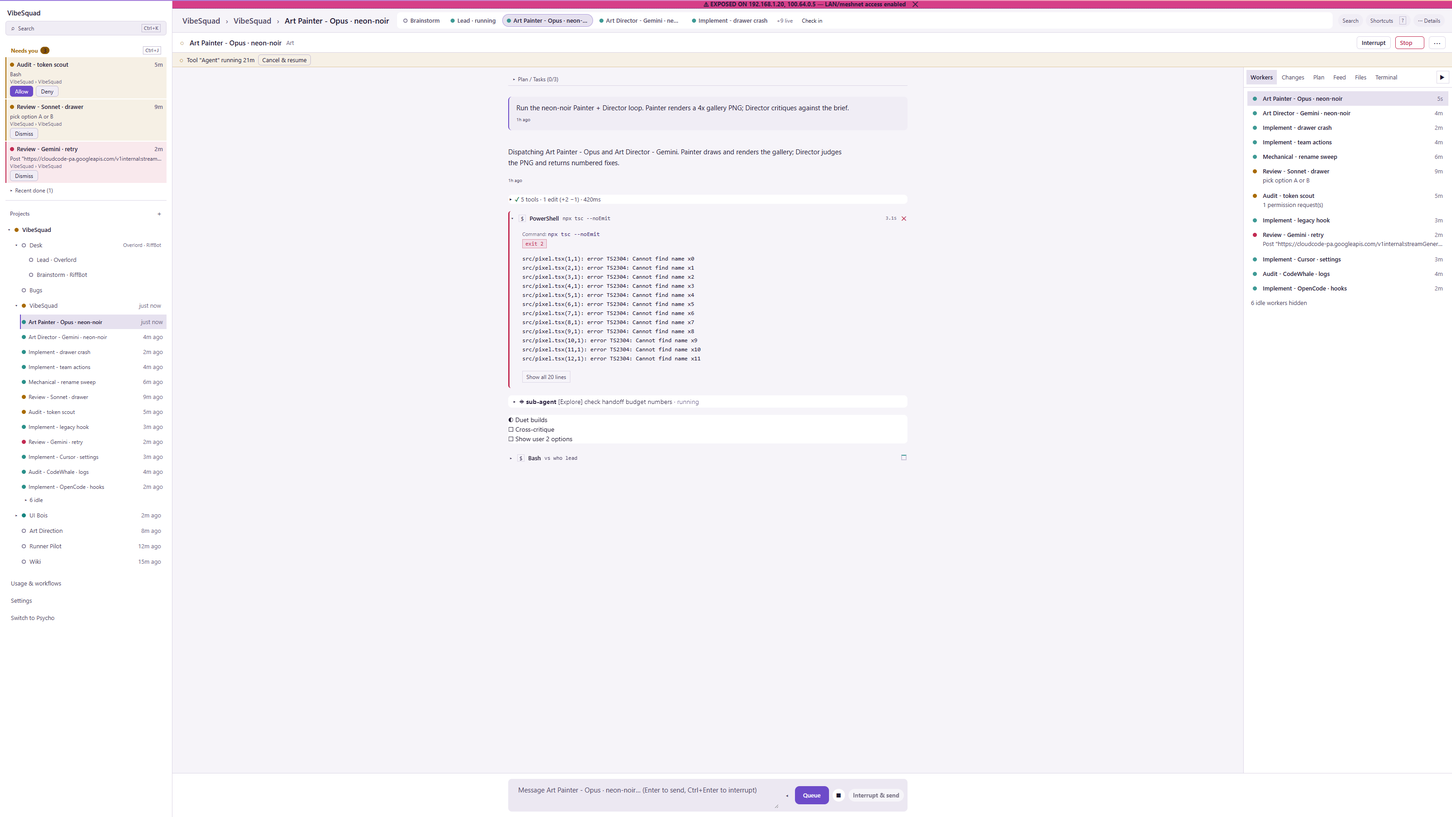
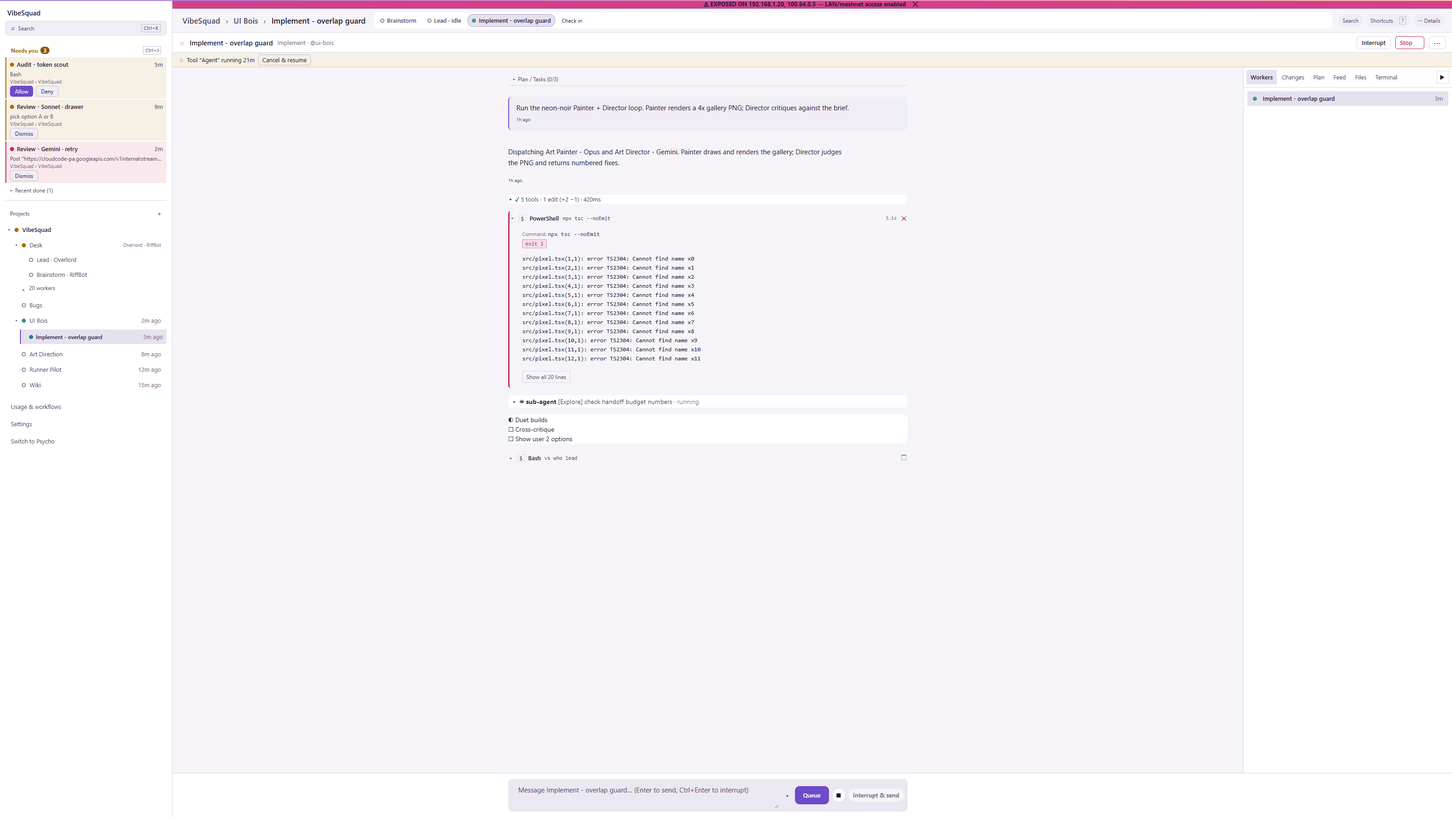
R2 sidebar fix round: fold project-named lane into Desk, indent workers + idle chevron column, light badge WCAG, Bugs table columns, reveal-on-jump (Ctrl+J/Needs you), Bugs closure, Search opens palette, ui-clicks testids, tests + shots

diff --git a/src/BoringAde.tsx b/src/BoringAde.tsx
@@ -75,7 +75,8 @@ export function boringSelectionForAgent(view: TeamView | undefined, agentId: str
   for (const pin of pinsForSquad(view).pinned) {
     if (isHubPin(pin)) continue;
     const r = roleIn(pin);
-    if (r) return { laneId: pin.lane.id, role: r };
+    // A lane named after the project (id === team id) is the Desk's own: its members show as Desk rows, not a second "VibeSquad" lane.
+    if (r) return pin.lane.id === view.team.id ? { laneId: "_desk", role: "worker" } : { laneId: pin.lane.id, role: r };
   }
   return null;
 }
@@ -172,8 +173,14 @@ export function boringSidebarModel(view: TeamView | undefined, now = Date.now())
     needsYou: z.member?.attention && z.member.attention.tone !== "finished" ? 1 : 0,
     age: formatTimestamp(z.member?.agent.updatedAt, "relative", now),
   });
+  // A feature lane whose id is the project id duplicates the hub: fold its members into the Desk instead of a second row.
+  const deskPins = (view ? pinsForSquad(view).pinned : []).filter((p) => !isHubPin(p) && p.lane.id === view?.team.id);
+  const deskWorkers: Pin["workers"] = [];
+  for (const m of [...(zones.hub?.workers ?? []), ...deskPins.flatMap((p) => [p.lead, p.brainstorm, ...(p.workers ?? [])])]) {
+    if (m && !deskWorkers.some((x) => x.agent.id === m.agent.id) && m.agent.id !== zones.overlord.member?.agent.id && m.agent.id !== zones.riffbot.member?.agent.id) deskWorkers.push(m);
+  }
   const core = {
-    deskWorkers: zones.hub?.workers ?? [],
+    deskWorkers,
     overlord: zoneRow("Lead · Overlord", zones.overlord),
     riffbot: zoneRow("Brainstorm · RiffBot", zones.riffbot),
     bugs: {
@@ -187,9 +194,9 @@ export function boringSidebarModel(view: TeamView | undefined, now = Date.now())
     },
   };
   // 2.1: the hub lane (RiffBot/Overlord plus anything else parked in it) and every lane worker count, so these totals match the project badge.
-  const hubNeedsYou = zones.hub?.needsYou ?? 0;
+  const hubNeedsYou = (zones.hub?.needsYou ?? 0) + deskPins.reduce((n, p) => n + p.needsYou, 0);
   const conversations = (view ? pinsForSquad(view).pinned : [])
-    .filter((p) => !isHubPin(p) && p.lane.id !== bugs.pin?.lane.id) // the Bugs lane has its own desk row: never count it twice
+    .filter((p) => !isHubPin(p) && p.lane.id !== view?.team.id && p.lane.id !== bugs.pin?.lane.id) // the Bugs lane has its own desk row: never count it twice
     .map((pin) => ({
       laneId: pin.lane.id,
       name: boringLaneLabel(pin.lane.name),
@@ -209,7 +216,7 @@ export function boringSidebarModel(view: TeamView | undefined, now = Date.now())
   // The project badge (view.needsYou) counts every member; fall back to hub + lanes when a view doesn't carry it.
   const totalNeedsYou = Math.max(view?.needsYou ?? 0, hubNeedsYou + laneTotal + core.bugs.needsYou);
   // Worst state per container (R2.5): red if anything inside errored, else amber. Only collapsed containers show a badge.
-  const deskErr = pinErr(zones.hub) || memberErr(zones.overlord.member) || memberErr(zones.riffbot.member);
+  const deskErr = pinErr(zones.hub) || deskPins.some(pinErr) || memberErr(zones.overlord.member) || memberErr(zones.riffbot.member);
   const projectErr = deskErr || core.bugs.err || conversations.some((c) => c.err);
   return { core, conversations, hubNeedsYou, totalNeedsYou, deskErr, projectErr };
 }
@@ -300,7 +307,7 @@ export function boringLaneTableRows(
     lastEvent: "", age: overlord.age || riffbot.age, sortAge: 0,
   };
   const bugsRow: LaneTableRow = {
-    key: "_bugs", kind: "desk", laneId: "_bugs", label: bugs.label, code: "", brainstorm: bugs.leadRunning ? "running" : "none", lead: "—",
+    key: "_bugs", kind: "desk", laneId: "_bugs", label: bugs.label, code: "", brainstorm: "—", lead: bugs.leadRunning ? "running" : "none",
     workers: workerSummary(bugs.pin?.workers ?? []), needsYou: bugs.needsYou, running: bugs.leadRunning ? 1 : 0, lastEvent: "", age: bugs.age, sortAge: 0,
   };
   return [...lanes, deskRow, bugsRow];
@@ -367,6 +374,7 @@ export function BoringApp({ views, view, onSelectSquad, onOpenPin, onSpinUpPin, 
       setSelectedLaneId(land.sel.laneId);
       if (land.sel.role === "worker") setSelectedWorkerId(activeAgentId);
       else { setSelectedRole(land.sel.role); setSelectedWorkerId(null); }
+      revealAgent(land.view, land.sel, activeAgentId);
     }
     setMode(land.mode);
   }, [activeAgentId]);
@@ -407,11 +415,32 @@ export function BoringApp({ views, view, onSelectSquad, onOpenPin, onSpinUpPin, 
     } else if (m) openAgent(m.agent.id);
     else void onOpenPin(pin);
   };
+  /** Open every parent of a jumped-to agent (project, Desk / lane, idle bucket): an explicit collapse never hides the selected row. */
+  const revealAgent = (v: TeamView, s: { laneId: string; role: Role | "worker" } | null, id: string) => {
+    if (!s) return;
+    const tid = v.team.id;
+    setProjectOpen((o) => ({ ...o, [tid]: true }));
+    if (s.laneId === "_overlord" || s.laneId === "_riffbot" || s.laneId === "_desk") {
+      setDeskOpen((o) => ({ ...o, [tid]: true }));
+      if (s.role === "worker") setDeskWorkersOpen((o) => ({ ...o, [tid]: true }));
+      return;
+    }
+    const key = `${tid}/${s.laneId}`;
+    setLaneOpen((o) => ({ ...o, [key]: true }));
+    if (s.role === "worker") {
+      const m = boringSidebarModel(v);
+      const pin = s.laneId === "_bugs" ? m.core.bugs.pin : m.conversations.find((c) => c.laneId === s.laneId)?.pin;
+      const w = (pin?.workers ?? []).find((x) => x.agent.id === id);
+      if (w && !boringWorkerIsLive(w)) setIdleWorkersOpen((o) => ({ ...o, [key]: true }));
+    }
+  };
   const openNeedsYou = (row: NeedsYouRow) => {
     if (row.teamId !== view?.team.id) onSelectSquad(row.teamId);
     const sel = boringSelectionForAgent(row.view, row.item.id);
     setSelectedLaneId(sel?.laneId ?? null);
     if (sel && sel.role !== "worker") setSelectedRole(sel.role);
+    setSelectedWorkerId(sel?.role === "worker" ? row.item.id : null);
+    revealAgent(row.view, sel, row.item.id);
     setMode("chat");
     openAgent(row.item.id);
   };
@@ -422,13 +451,13 @@ export function BoringApp({ views, view, onSelectSquad, onOpenPin, onSpinUpPin, 
     setMode("chat");
     if (agentId) openAgent(agentId);
   };
-  const pickBugs = () => {
+  const pickBugs = (b: { pin: Pin | null; agentId: string | null } = core.bugs) => {
     setSelectedLaneId("_bugs");
     setSelectedRole("brainstorm");
     setSelectedWorkerId(null);
     setMode("chat");
     // Selecting only shows the lane (live Buddy) or its empty card; spawning is the card's "Start Brainstorm" (never focusPin).
-    if (core.bugs.pin && core.bugs.agentId) openAgent(core.bugs.agentId);
+    if (b.pin && b.agentId) openAgent(b.agentId);
   };
 
   // Resolve the chat target.
@@ -575,7 +604,7 @@ export function BoringApp({ views, view, onSelectSquad, onOpenPin, onSpinUpPin, 
             {idle.length > 0 && (
               <>
                 <button type="button" className="boring-idle-toggle boring-worker-idle" data-testid={`boring-workers-idle-${c.laneId}`} aria-expanded={idleOpen} onClick={() => setIdleWorkersOpen((o) => ({ ...o, [key]: !idleOpen }))}>
-                  {idleOpen ? "▾" : "▸"} {idle.length} idle
+                  <span className="boring-idle-chev" aria-hidden="true">{idleOpen ? "▾" : "▸"}</span>{idle.length} idle
                 </button>
                 {idleOpen && idle.map((w) => workerRow(v, c.pin!, c.laneId, w))}
               </>
@@ -592,7 +621,7 @@ export function BoringApp({ views, view, onSelectSquad, onOpenPin, onSpinUpPin, 
         {agentObj ? <StatusDot agent={agentObj} /> : <span className={`boring-dot ${status} ${glyphCls(status, needsYou > 0 ? "needs-you" : null)}`} />}
         <span className="boring-row-label">{label}</span>
         <span className="boring-conv-age">{age}</span>
-        {badge(needsYou)}
+        {badge(needsYou, memberErr(agentObj ? { agent: agentObj } : null))}
       </button>
     </div>
   );
@@ -635,7 +664,7 @@ export function BoringApp({ views, view, onSelectSquad, onOpenPin, onSpinUpPin, 
   };
   const bugsRow = (v: TeamView, m: ReturnType<typeof boringSidebarModel>) => {
     const b = m.core.bugs;
-    const openBugs = () => { if (v.team.id !== activeTeamId) onSelectSquad(v.team.id); pickBugs(); };
+    const openBugs = () => { if (v.team.id !== activeTeamId) onSelectSquad(v.team.id); pickBugs(b); };
     return laneRow(v, { laneId: "_bugs", name: b.label, code: "", pin: b.pin, status: b.pin?.running ? "running" : b.pin?.brainstorm?.agent.status ?? "none", needsYou: b.needsYou, err: b.err, age: b.age, titleTestId: suffix(v, "boring-core-bugs"), onOpen: openBugs });
   };
 
@@ -644,7 +673,7 @@ export function BoringApp({ views, view, onSelectSquad, onOpenPin, onSpinUpPin, 
       <aside className="boring-sidebar" data-testid="boring-sidebar">
         <div className="boring-sidebar-head" data-testid="boring-sidebar-head">
           <span className="boring-sidebar-title" data-testid="boring-sidebar-title">{view?.team.name ?? "No project"}</span>
-          <button type="button" className="boring-search-trigger" data-testid="boring-sidebar-search-btn" title="Search all transcripts" aria-label="Search (Ctrl+K)" onClick={() => openOverlay("search")}>
+          <button type="button" className="boring-search-trigger" data-testid="boring-sidebar-search-btn" title="Command palette (Ctrl+K)" aria-label="Search: open command palette (Ctrl+K)" onClick={() => openOverlay("palette")}>
             <span aria-hidden="true">⌕</span><span>Search</span><kbd className="boring-kbd">Ctrl+K</kbd>
           </button>
         </div>
@@ -665,7 +694,7 @@ export function BoringApp({ views, view, onSelectSquad, onOpenPin, onSpinUpPin, 
                   <button type="button" className={"boring-project-row" + (isOn(v, "project") ? " on" : "")} data-testid={`boring-project-header-${v.team.id}`} aria-expanded={open} onClick={() => openProject(v.team.id)}>
                     <span className={`boring-dot ${(v.running ?? 0) > 0 ? "running" : "idle"} ${glyphCls((v.running ?? 0) > 0 ? "running" : "idle", (v.needsYou ?? 0) > 0 ? "needs-you" : null)}`} />
                     <span className="boring-project-name">{v.team.name}</span>
-                    {!open && badge(v.needsYou ?? 0, m.projectErr)}
+                    {!open && badge(m.totalNeedsYou, m.projectErr)}
                   </button>
                   {active && (
                     <button type="button" className="boring-lane-add" data-testid="boring-new-conv-btn" title="New lane" aria-label="New lane" onClick={onAddBuddy}>+ lane</button>

diff --git a/src/boring.css b/src/boring.css
@@ -1130,8 +1130,10 @@ html[data-vibe="boring"] .boring-conv-line .boring-core-row { flex: 1 1 auto; mi
 html[data-vibe="boring"] .boring-core-row.on { background: var(--surface-3); box-shadow: inset 2px 0 0 var(--accent); }
 html[data-vibe="boring"] .boring-desk-sub { margin-left: auto; font-size: var(--t-caption); color: var(--text-3); white-space: nowrap; }
 html[data-vibe="boring"] .boring-conv-row.on:not(:has(.boring-worker-row.on)) > .boring-conv-line { background: var(--surface-3); box-shadow: inset 2px 0 0 var(--accent); border-radius: 6px; }
-html[data-vibe="boring"] .boring-worker-list { padding-left: 16px; }
-html[data-vibe="boring"] .boring-worker-row { padding-left: 4px; }
+html[data-vibe="boring"] .boring-worker-list { padding-left: 16px; } /* children of the lane: same 16px level step as the Desk members */
+html[data-vibe="boring"] .boring-worker-row { padding-left: 20px; } /* 16px chevron slot + 4px, so the worker dot sits one level right of the lane dot */
 html[data-vibe="boring"] .boring-desk-workers .boring-idle-toggle { min-height: 24px; padding-left: 4px; }
+html[data-vibe="boring"] .boring-worker-list > .boring-idle-toggle { display: inline-flex; align-items: center; gap: 0; min-height: 24px; padding: 2px 8px 2px 0; }
+html[data-vibe="boring"] .boring-idle-toggle .boring-idle-chev { flex: 0 0 16px; width: 16px; text-align: center; }
 html[data-vibe="boring"] .boring-badge.err { background: var(--st-err); color: var(--on-accent); }
-html[data-vibe="boring"][data-theme="light"] .boring-badge.err { background: var(--st-err); color: #ffffff; }
+html[data-vibe="boring"][data-theme="light"] .boring-badge { color: #ffffff !important; }

diff --git a/src/CommandPalette.tsx b/src/CommandPalette.tsx
@@ -413,7 +413,7 @@ export type PaletteActions = {
   needsYou?: () => void;
 };
 
-type Overlay = "search" | "shortcuts" | "quickOpen" | "findInFiles";
+type Overlay = "palette" | "search" | "shortcuts" | "quickOpen" | "findInFiles";
 export const openOverlay = (which: Overlay) => window.dispatchEvent(new CustomEvent("vs:open-overlay", { detail: which }));
 
 /** Keymap commands this host doesn't run (focus-scoped ones such as block 4's inline edit) go out as this event. */

diff --git a/docs/shots/desk-r2/REVIEW_code_r2.md b/docs/shots/desk-r2/REVIEW_code_r2.md
@@ -1,0 +1,88 @@
+# Code Review · `unit-desk-r2-sidebar` (`43e6d04`)
+
+**Verdict:** `FAIL 1/3/2 43e6d04` (1 High, 3 Medium, 2 Low)
+**Commits reviewed:** `1c2b709`, `7e5f44d`, `43e6d04` (`origin/master...HEAD`)
+**Spec:** `docs/PLAN_DESK_R2_SIDEBAR.md` (`docs/UX_REVIEW_R2.md`)
+
+## Verification Run
+- `npx tsc --noEmit`: PASS (exit 0)
+- `node --test test/boring-mode.test.mjs test/prefs.test.mjs test/desk-d3c-context-panel.test.mjs test/pair-modal-scroll.test.mjs test/sync-runtime-live-needs.test.mjs`: PASS (103/103 tests)
+
+---
+
+## Findings
+
+### High
+
+1. **[H1] `scripts/ui-clicks.mjs` still references removed `boring-project-overview-btn` and unexpanded Desk child testids (`scripts/ui-clicks.mjs:64`, `src/BoringAde.tsx:603, 618-621`)**
+   - `scripts/ui-clicks.mjs:64` still defines:
+     ```js
+     ...[["boring-overview", "boring-project-overview-btn"], ["boring-overlord", "boring-core-overlord"], ["boring-riffbot", "boring-core-riffbot"], ["boring-bugs", "boring-core-bugs"], ["boring-usage", "boring-usage-btn"], ["boring-settings", "boring-settings-btn"]].map(([id, t]) => ({ id, setup: (p) => boringClick(p, t) })),
+     ```
+   - `boring-project-overview-btn` was removed in `7e5f44d` (replaced by `boring-project-header-<teamId>`).
+   - In addition, `boring-core-overlord` and `boring-core-riffbot` are now only rendered when `deskBlock` is expanded (`src/BoringAde.tsx:603, 618-621`), which defaults to collapsed on Overview/home (`deskOpen[key] ?? inDesk` is `false`), so `boringClick(p, "boring-core-overlord")` and `boringClick(p, "boring-core-riffbot")` will also time out unless `boring-desk-toggle` is clicked first.
+
+### Medium
+
+1. **[M1] `openNeedsYou` does not update `selectedWorkerId`, and parent auto-expansion does not override explicit collapse or expand idle workers (`src/BoringAde.tsx:410-417, 524, 553, 557, 603, 605`; `test/boring-mode.test.mjs:1025-1056`)**
+   - In `src/BoringAde.tsx:410-417`:
+     ```tsx
+     const openNeedsYou = (row: NeedsYouRow) => {
+       if (row.teamId !== view?.team.id) onSelectSquad(row.teamId);
+       const sel = boringSelectionForAgent(row.view, row.item.id);
+       setSelectedLaneId(sel?.laneId ?? null);
+       if (sel && sel.role !== "worker") setSelectedRole(sel.role);
+       setMode("chat");
+       openAgent(row.item.id);
+     };
+     ```
+     Unlike the `activeAgentId` `useEffect` (`src/BoringAde.tsx:368-369`), `openNeedsYou` never sets `setSelectedWorkerId(sel?.role === "worker" ? row.item.id : null)`. If `activeAgentId` in `panes` was already `row.item.id` (e.g., user viewed that worker, clicked the project row to visit Overview, then clicked the worker in `Needs you`) or on the render before `useEffect` fires, `selectedWorkerId` stays stale (`null`), causing `agentId` (`src/BoringAde.tsx:442-449`) to resolve to `null` (for `_desk` hub workers) or the lane's Brainstorm/Lead instead of the worker.
+   - Parent auto-expansion (`src/BoringAde.tsx:524, 553, 603, 605`) relies solely on nullish coalescing (`projectOpen[id] ?? ...`, `laneOpen[key] ?? isSel`, `deskOpen[key] ?? inDesk`, `deskWorkersOpen[key] ?? ...`). Once a user collapses a project, Desk, or lane (`false` stored in state), jumping to an agent inside it via `Ctrl+J` or `Needs you` leaves the parent collapsed and the `.on` row hidden. Moreover, `idleWorkersOpen` (`src/BoringAde.tsx:557`: `const idleOpen = Boolean(idleWorkersOpen[key]);`) has no selection fallback at all, so selecting an idle worker (e.g., an `unread` worker) never reveals its row.
+   - **Unit test gap:** `test/boring-mode.test.mjs:1041-1056` (`"R2.1 sidebar: exactly one row is .on and the breadcrumb agrees (Overview, worker, project switch)"`) only mounts a single project (`squad(...)`) and manually clicks `boring-conv-toggle-ade` then `boring-worker-w1`. It does not test `Ctrl+J`, `openNeedsYou`, switching projects in `<BoringApp>`, or parent auto-expansion (only the pure `boringActiveSelection` helper is tested with cross-project args at lines `1025-1039`).
+
+2. **[M2] Clicking `Bugs` under a non-active expanded project opens the old project's Bugs agent (`src/BoringAde.tsx:425-432, 636-640`)**
+   - In the unified project tree, every expanded project renders `bugsRow(v, m)`:
+     ```tsx
+     const bugsRow = (v: TeamView, m: ReturnType<typeof boringSidebarModel>) => {
+       const b = m.core.bugs;
+       const openBugs = () => { if (v.team.id !== activeTeamId) onSelectSquad(v.team.id); pickBugs(); };
+     ```
+   - `pickBugs()` (`src/BoringAde.tsx:425-432`) reads `if (core.bugs.pin && core.bugs.agentId) openAgent(core.bugs.agentId);` from the current `view` closure (`core = model.core`) instead of the clicked project's `m.core.bugs` (`b`). Clicking `Bugs` under a second expanded project opens the *first* project's Bugs agent, which then triggers `useEffect([activeAgentId])` (`src/BoringAde.tsx:366`) and snaps the Squad selection back to the first project.
+   - Additionally, `bugsRow` delegates to `laneRow(v, { laneId: "_bugs", ... })` (`src/BoringAde.tsx:559, 561`), which hardcodes `data-testid="boring-conv-_bugs"` and `data-testid="boring-conv-toggle-_bugs"` without `suffix(v, ...)`, duplicating those testids whenever multiple projects are expanded.
+
+3. **[M3] Sidebar Search trigger advertises `Ctrl+K` but opens transcript search instead of Command Palette (`src/BoringAde.tsx:647-649`, `src/keymap.ts:23, 29, 33`)**
+   - `src/BoringAde.tsx:647-649` renders:
+     ```tsx
+     <button type="button" className="boring-search-trigger" data-testid="boring-sidebar-search-btn" title="Search all transcripts" aria-label="Search (Ctrl+K)" onClick={() => openOverlay("search")}>
+       <span aria-hidden="true">⌕</span><span>Search</span><kbd className="boring-kbd">Ctrl+K</kbd>
+     </button>
+     ```
+   - **What `Ctrl+K` actually does today:**
+     - Global scope (`src/keymap.ts:23`, `src/CommandPalette.tsx:496-499, 581`): `{ id: "palette", label: "Command palette", defaults: ["Ctrl+K", "Ctrl+Shift+P"] }` — opens the **Command Palette** (`mode = "palette"`).
+     - `files-editor` scope (`src/keymap.ts:33`, `src/FilesPanel.tsx:561`): `{ id: "inlineEdit", label: "Inline edit the selection (Files editor)", defaults: ["Ctrl+K"], scope: "files-editor" }`.
+     - Transcript search (`src/keymap.ts:29`: `{ id: "search", label: "Search all transcripts", defaults: [] }`) has **no default shortcut**.
+   - While `[⌕ Search  Ctrl+K]` came from the R2 wireframe (`docs/UX_REVIEW_R2.md:50`, `docs/PLAN_DESK_R2_SIDEBAR.md:24`), wiring the button to `openOverlay("search")` while labelling it `Ctrl+K` means clicking the button and pressing `Ctrl+K` open two different overlays.
+
+### Low
+
+1. **[L1] Collapsed project badge uses `v.needsYou ?? 0` instead of `m.totalNeedsYou`, and `coreRow` badge omits `err` tint (`src/BoringAde.tsx:210, 595, 668`)**
+   - `boringSidebarModel` computes `totalNeedsYou = Math.max(view?.needsYou ?? 0, hubNeedsYou + laneTotal + core.bugs.needsYou)` (`src/BoringAde.tsx:210`), but the collapsed project row (`src/BoringAde.tsx:668`) renders `badge(v.needsYou ?? 0, m.projectErr)` instead of `badge(m.totalNeedsYou, m.projectErr)`.
+   - `coreRow` (`src/BoringAde.tsx:595`) calls `badge(needsYou)` without passing the member's error state (`err`), so an errored Overlord or RiffBot row inside an expanded Desk shows an amber badge instead of `--st-err`.
+
+2. **[L2] Dead CSS selectors in `src/boring.css` (`src/boring.css:155, 167, 169, 176, 192, 656, 766, 879`)**
+   - `.boring-core-group`, `.boring-trinity-card`, and `.boring-new-conv-btn` remain in earlier rules of `src/boring.css` after their JSX elements were removed in `7e5f44d`.
+
+---
+
+## Focus Checklist Summary
+
+1. **`boringActiveSelection` pure derivation & unit tests:** Pure selector implemented at `src/BoringAde.tsx:139-157`; at most one `.on` row and worker title in last crumb verified. However, `openNeedsYou` misses `setSelectedWorkerId`, parent auto-expansion does not clear explicit `false` state in `projectOpen`/`laneOpen`/`deskOpen` or open `idleWorkersOpen`, and `test/boring-mode.test.mjs:1041-1056` does not test cross-project `Ctrl+J`/`Needs you` jumps or parent auto-expansion on `<BoringApp>` (**M1**).
+2. **One tree shape:** Detached `boring-core-group` / `boring-conv-list` and `open && !active` split are removed; project name click calls `openProject` (`mode = "project"`) and chevron calls `toggleProject`. Clicking `Bugs` in a non-active expanded project has a closure bug (**M2**).
+3. **Removed testids grep (`test/`, `src/`, `scripts/`):** `scripts/ui-clicks.mjs:64` still references `boring-project-overview-btn` (and unexpanded `boring-core-overlord` / `boring-core-riffbot`) (**H1**).
+4. **Overview `_desk` row & `boringHeaderStrip` context dedup:** Single `_desk` row implemented at `src/BoringAde.tsx:297-301, 768-773`; `boringHeaderStrip` suppresses `"Context N% full"` when `meterShown && !canHandoff` (`src/boringHeaderStrip.ts:28`, `src/BoringAgentHeader.tsx:121-130`).
+5. **Collapsed-only worst-state badges:** Implemented on project, Desk, and lane containers with `.boring-badge.err` (`--st-err`); minor `totalNeedsYou` / `coreRow` `err` discrepancy (**L1**).
+6. **CSS scoping & Psycho isolation:** All new rules in `src/boring.css:1099-1137` are scoped under `html[data-vibe="boring"]` with no `@media` rules; no edits to `src/styles.css` or `art/**`.
+7. **Search `Ctrl+K` label:** Button opens `openOverlay("search")` ("Search all transcripts", unbound by default) while `Ctrl+K` is bound to `"palette"` (Command Palette) globally and `"inlineEdit"` in `files-editor` (**M3**).
+
+## Cause-vs-Symptom Gate
+- **Does this fix the cause or hide the symptom?** The one-tree refactor and `boringActiveSelection` selector address the architectural root cause of the split sidebar and desynchronised breadcrumb, but the incomplete `openNeedsYou` / auto-expand state transitions (**M1**), non-active project `Bugs` closure (**M2**), and broken `scripts/ui-clicks.mjs` surface definitions (**H1**) must be resolved before merge.

diff --git a/docs/shots/desk-r2/REVIEW_director_r2.md b/docs/shots/desk-r2/REVIEW_director_r2.md
@@ -1,0 +1,63 @@
+# Director review: @desk Unit 1 (unit-desk-r2-sidebar), round 1
+
+Verdict: **FAIL** (4 MUST, 5 NICE)
+Branch `unit-desk-r2-sidebar` @ `43e6d04`. Shots: `docs/shots/desk-r2/r2-{dark,light}-{sidebar-overview,sidebar-chat-worker,overview-table}.png`. The shots are 3200x1800 CSS px, i.e. 4K at 120%.
+Bar: `docs/UX_REVIEW_R2.md` rules 1-7, `docs/PLAN_DESK_R2_SIDEBAR.md` Decided (R2.1/2.2/2.3/2.5/2.6), and art-direction SPEC U4 (WCAG >= 4.5:1, chrome readability first).
+
+## Checklist
+
+| Check | Result | Evidence |
+|---|---|---|
+| One tree shape, no detached bottom sections | PASS (only one project shown) | `Project desk` / `Lanes` / `Overview` / `+ New project` blocks are gone. Desk, Bugs and lanes sit under the VibeSquad row. None of the shots has a second project, so "every project renders the same way" can't be checked. See M4. |
+| State dots on the 16px chevron column | PARTIAL | Project, Desk, Bugs and lane dots line up. Desk children are indented one level. **Worker rows under an expanded lane are not indented**: their dots sit on the lane-dot column. See M1. |
+| Exactly one highlighted row, matching the breadcrumb | PASS | Overview: only the VibeSquad project row is highlighted, and the crumb reads `VibeSquad › Overview`. Chat: only the `Art Painter - Opus · neon-noir` row is highlighted, and the crumb reads `VibeSquad › VibeSquad › Art Painter - Opus · neon-noir`. |
+| Worker crumb shows the worker title | PASS | The chat header crumb ends with the worker title, not "Brainstorm". |
+| Badges only on collapsed containers, worst-state colour | PASS (colour) / FAIL (light contrast) | Collapsed VibeSquad lane: red `3` (it contains an error). Expanded, it shows no badge. The light-theme text fails contrast. See M2. |
+| Search header, Projects [+], [+ lane] | PASS | `VibeSquad` title plus `⌕ Search  Ctrl+K`. `Projects` heading has `+`. `+ lane` shows on the selected project row. The Overview has `+ New lane`. |
+| Single Desk row in the Overview table | PASS (shape) / FAIL (data) | There is one Desk row and no `_overlord`/`_riffbot` rows. The Bugs row puts the lead status in the Brainstorm column (M3), and the Desk/Bugs order differs from the tree (N1). |
+| Dark contrast | PASS | Body text, ages, dots and badges are readable at 120%. |
+| Light contrast | FAIL | The sidebar `3` badges and the table's `Needs you · 3` pill have dark text on dark fills. See M2. |
+| Consistency with D1-D3 on master | PASS | The same flat surfaces, type scale, segmented tabs, header strip and right-panel Workers list are used. |
+
+## MUST
+
+1. **Worker rows are not indented under their lane.**
+   - In `r2-*-sidebar-chat-worker`, the dots for `Art Painter … OpenCode · hooks` sit at the same x as the lane dots (VibeSquad, UI Bois, Art Direction): about 33 px in the 2000-wide view. Desk children (`Lead · Overlord`) sit at about 42 px. The `▸ 6 idle` chevron is off-grid at about 35 px.
+   - **Fix:** in `src/boring.css`, give `.boring-worker-list` (lane and desk worker lists) the same left inset as the Desk member rows, one level = 16px (`padding-left: calc(var(--tree-indent, 16px) * 2)` or match the desk-child rule). Put the `▸ N idle` toggle on the same 16px chevron column (`width:16px; flex:0 0 16px`), so its chevron sits under the worker dots' chevron slot.
+   - **Why it's a must:** without the indent, 12 workers read as sibling lanes, which brings back the "which block belongs to what" confusion this review exists to fix.
+
+2. **Light-theme badges fail WCAG.** The text is `rgb(43,24,64)`:
+   - on `#8a5700` (amber `Needs you` count and the table pill): **2.63:1**;
+   - on `rgb(194,42,82)` (red `.boring-badge.err` in the tree): **2.87:1**;
+   - white on the same fills would be **6.1:1** and **5.6:1**.
+
+   **Cause:** `src/styles.css:6055` forces `.badge { color: var(--on-pastel) !important }` everywhere outside `.sidebar`. That beats the non-important `#ffffff` light rules at `src/boring.css:883` and `:1137`, and the duplicate `.boring-badge.err` light rule near `:1136`.
+
+   **Fix (boring.css only):**
+   ```css
+   html[data-vibe="boring"][data-theme="light"] .boring-badge { color: #ffffff !important; }
+   ```
+   Then delete the duplicate `.boring-badge.err` pair, so one rule is left at `:1136-1137`.
+
+3. **The Bugs row in the Overview table has its columns swapped.**
+   - `src/BoringAde.tsx` `boringLaneTableRows`, the `bugsRow` currently sets `brainstorm: bugs.leadRunning ? "running" : "none", lead: "—"`.
+   - **Fix:** set `brainstorm: "—", lead: bugs.leadRunning ? "running" : "none"` (or the real Bugs Buddy status if `bugs.pin.brainstorm` exists).
+   - Same file: the Desk row reads `"—"` in Lead and Brainstorm in the shots. That's only because `?demo=1` has no hub agents. See M4.
+
+4. **The evidence doesn't cover the done-check.** The plan's Unit 1 done-check needs "single `.on` row matching the breadcrumb **across project switches and Ctrl+J**". Every shot has one project and a Desk with no live Overlord/RiffBot. In `scratch/shoot-r2.mjs`, use `?demo=1&riff=1` so Desk's Lead/Brainstorm are live and the Desk table row is filled, inject or add a second project, and add three shots (dark + light):
+   - (a) two projects expanded, showing the identical shape (the R2-1 repro, compare with `ux-review-r2/02-two-projects-two-shapes-sidebar.png`);
+   - (b) after Ctrl+J opens a worker in the *other* project: the crumb and the single `.on` row are both in that project, and its parents are auto-expanded (the R2-2 repro, compare with `03-ctrlj-wrong-project.png`);
+   - (c) a collapsed project with a badge.
+
+   Also note the fixture lane named `VibeSquad @vibe` sits beside `Desk`. It's a real feature lane in `src/demo.tsx`, not a bug, but it reads as a second desk in every shot. Rename it in the fixture (e.g. `Core`) or call it out in the shot captions.
+
+## NICE
+
+1. **Table order should match the tree.** The tree goes Desk, Bugs, then lanes, but the table puts Desk and Bugs last. In `boringLaneTableRows`, return `[deskRow, bugsRow, ...lanes]` so the table's top-to-bottom order matches the sidebar.
+2. **Container dot should match the badge.** The collapsed VibeSquad lane and the project row show an **amber** dot next to a **red** `3` badge. When a container is collapsed, tint its dot with the same worst state (`--st-err` if any error), so the dot and badge don't disagree.
+3. **Desk sub-label doesn't reflect who's there.** The Desk row always shows `Overlord · RiffBot`, even when neither agent exists (both child dots are hollow). Make `.boring-desk-sub` reflect real presence, or hide it when both are absent.
+4. **`+ lane` reveal is narrower than the plan.** `.boring-lane-add` only shows on hover/focus or when the project row is `.on` (`src/boring.css:1121`). The plan says "expanded/hovered project row". In the chat shot the expanded VibeSquad row has no `+ lane`. Either add `.boring-project-line.open .boring-lane-add { opacity: 1 }` or update the plan text to "selected/hovered".
+5. **Search appears twice.** `Search` now sits both in the sidebar header and top-right in the main header (from D3a). Consider dropping the main-header copy in Normal mode, or styling it as an icon-only `⌕`. This one comes from master; queue it if it's out of Unit 1 scope.
+
+## Not judged here (Unit 2 scope)
+`Needs you` still has 4-line cards with Dismiss on non-permission rows, `VibeSquad › VibeSquad` locations, and `Recent done (1)`. All of these are R2.4/R2.7, owned by `unit-desk-r2-needs-you`.
